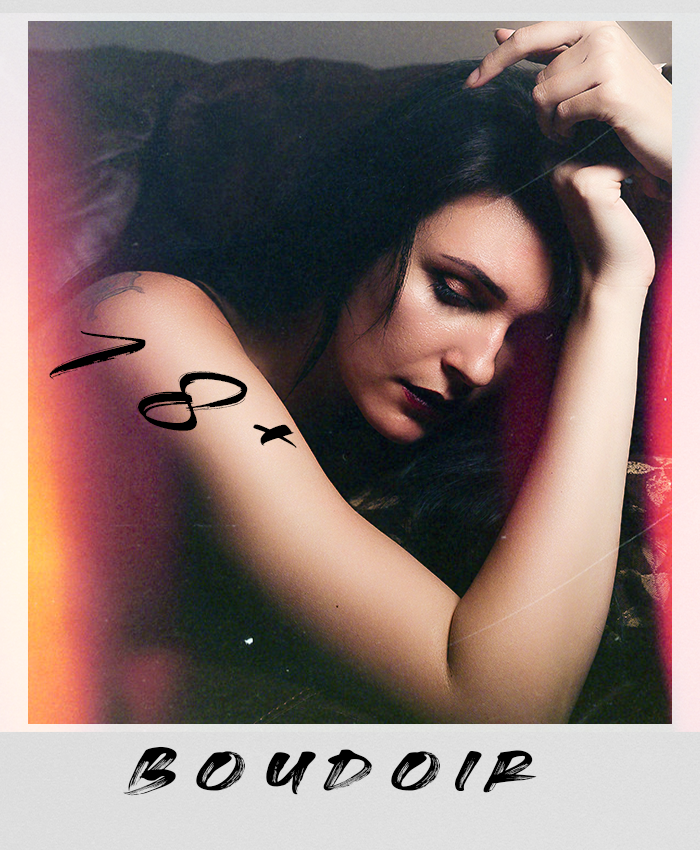
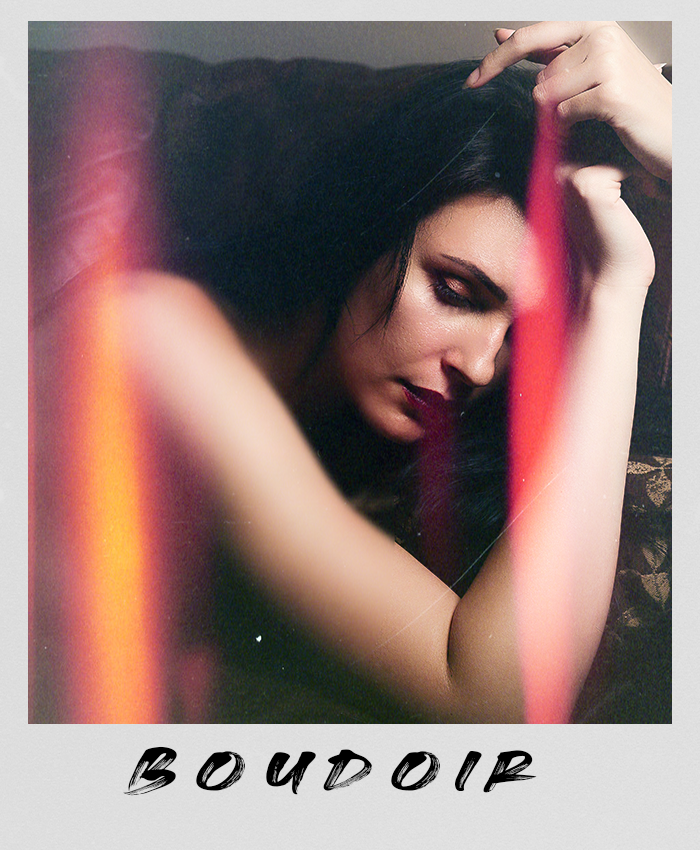
fix polaroids

diff --git a/portraits.html b/portraits.html
@@ -165,45 +165,32 @@
 
             // List of portrait images
             const images = [
-              "images/portraits/062.jpg",
-    "images/portraits/2016-05-10 163-Edit-2-2.jpg",
-    "images/portraits/2016-09-26 351-Edit.jpg",
-    "images/portraits/2017-01-20 140.jpg",
-    "images/portraits/2017-09-23 127-Edit.jpg",
-    "images/portraits/2018-07-10 031-Edit.jpg",
-    "images/portraits/2018-08-10 037-Edit-2.jpg",
-    "images/portraits/2018-09-15 114-Edit.jpg",
-    "images/portraits/2018-10-04 192-Edit.jpg",
-    "images/portraits/2018-10-17 098-Edit.jpg",
-    "images/portraits/2019-01-23 012-Edit-2-2.jpg",
-    "images/portraits/2019-04-06 522-Edit.jpg",
-    "images/portraits/2019-04-06 933-Edit.jpg",
-    "images/portraits/235-Edit.jpg",
-    "images/portraits/284-Edit-5.jpg",
-    "images/portraits/562-Edit-2.jpg",
-    "images/portraits/IMG_0135-Edit.jpg",
-    "images/portraits/IMG_1173-Edit.jpg",
-    "images/portraits/IMG_1610-Edit.jpg",
-    "images/portraits/IMG_1663-Edit.jpg",
-    "images/portraits/IMG_2054-Edit.jpg",
-    "images/portraits/IMG_2273-Edit.jpg",
-    "images/portraits/IMG_2451-Edit-2.jpg",
-    "images/portraits/IMG_2526-Edit-3.jpg",
-    "images/portraits/IMG_2555-Edit-2.jpg",
-    "images/portraits/IMG_5567-Edit.jpg",
-    "images/portraits/IMG_5619-Edit.jpg",
-    "images/portraits/IMG_5731-Edit.jpg",
-    "images/portraits/IMG_6034-Edit.jpg",
-    "images/portraits/IMG_6117-Edit.jpg",
-    "images/portraits/IMG_8079-Edit-2.jpg",
-    "images/portraits/IMG_8413 (1)-Edit.jpg",
-    "images/portraits/IMG_8465-Edit-2.jpg",
-    "images/portraits/IMG_8896-Edit.jpg",
-    "images/portraits/IMG_9010-Edit.jpg",
-    "images/portraits/IMG_9051-Edit-2.jpg",
-    "images/portraits/IMG_9381-Edit-2.jpg",
-    "images/portraits/IMG_9405-Edit.jpg",
-    "images/portraits/IMG_9803-Edit-2.jpg"
+             "images/portraits/White Border/Alexandria 1.png",
+"images/portraits/White Border/Ash 1.png",
+"images/portraits/White Border/Ash 2.png",
+"images/portraits/White Border/Chandler 1.png",
+"images/portraits/White Border/Eva 1.png",
+"images/portraits/White Border/Eva 2.png",
+"images/portraits/White Border/Eva 3.png",
+"images/portraits/White Border/Heidi 1.png",
+"images/portraits/White Border/Jade 1.png",
+"images/portraits/White Border/Jade 2.png",
+"images/portraits/White Border/Kate 1.png",
+"images/portraits/White Border/Kate 2.png",
+"images/portraits/White Border/Kate 3.png",
+"images/portraits/White Border/Kelsey 1.png",
+"images/portraits/White Border/Kilik 1.png",
+"images/portraits/White Border/Kilik 2.png",
+"images/portraits/White Border/Nova 1.png",
+"images/portraits/White Border/Nova 2.png",
+"images/portraits/White Border/Pixie 1.png",
+"images/portraits/White Border/Ray 1.png",
+"images/portraits/White Border/Ray 2.png",
+"images/portraits/White Border/Sam 1.png",
+"images/portraits/White Border/Steph 1.png",
+"images/portraits/White Border/Steph 2.png",
+"images/portraits/White Border/Steph 3.png",
+"images/portraits/White Border/Tati 1.png",
             ];
 
             // Shuffle function

diff --git a/Index.html b/Index.html
@@ -141,20 +141,23 @@
         <img src="images/Site Buttons/PortraitPolaroid.png" alt="Portraits" class="w-full h-auto">
         <p class="mt-2">Portraits</p>
     </a>
-    <a href="boudoir.html" class="text-center text-white">
-        <img src="images/Site Buttons/boudoir mobile.png" alt="Boudoir" class="w-full h-auto">
-        <p class="mt-2">Boudoir</p>
-    </a>
+  <a href="boudoir.html" class="text-center text-white">
+    <img src="images/Site Buttons/BoudoirPolaroid.png" alt="Boudoir" class="w-full h-auto">
+    <p class="mt-2">
+        Boudoir <br>
+        <small class="opacity-60 text-sm">NSFW – Artistic Nudity</small>
+    </p>
+</a>
     <a href="places.html" class="text-center text-white">
-        <img src="images/Site Buttons/places mobile.png" alt="Places" class="w-full h-auto">
+        <img src="images/Site Buttons/PlacesPolaroid.png" alt="Places" class="w-full h-auto">
         <p class="mt-2">Places</p>
     </a>
     <a href="bands.html" class="text-center text-white">
-        <img src="images/Site Buttons/bands mobile.png" alt="Bands" class="w-full h-auto">
+        <img src="images/Site Buttons/BandsPolaroid.png" alt="Bands" class="w-full h-auto">
         <p class="mt-2">Bands</p>
     </a>
     <a href="analog.html" class="text-center text-white">
-        <img src="images/Site Buttons/analog mobile.png" alt="Analog" class="w-full h-auto">
+        <img src="images/Site Buttons/AnalogPolaroid.png" alt="Analog" class="w-full h-auto">
         <p class="mt-2">Analog</p>
     </a>
 </div>
